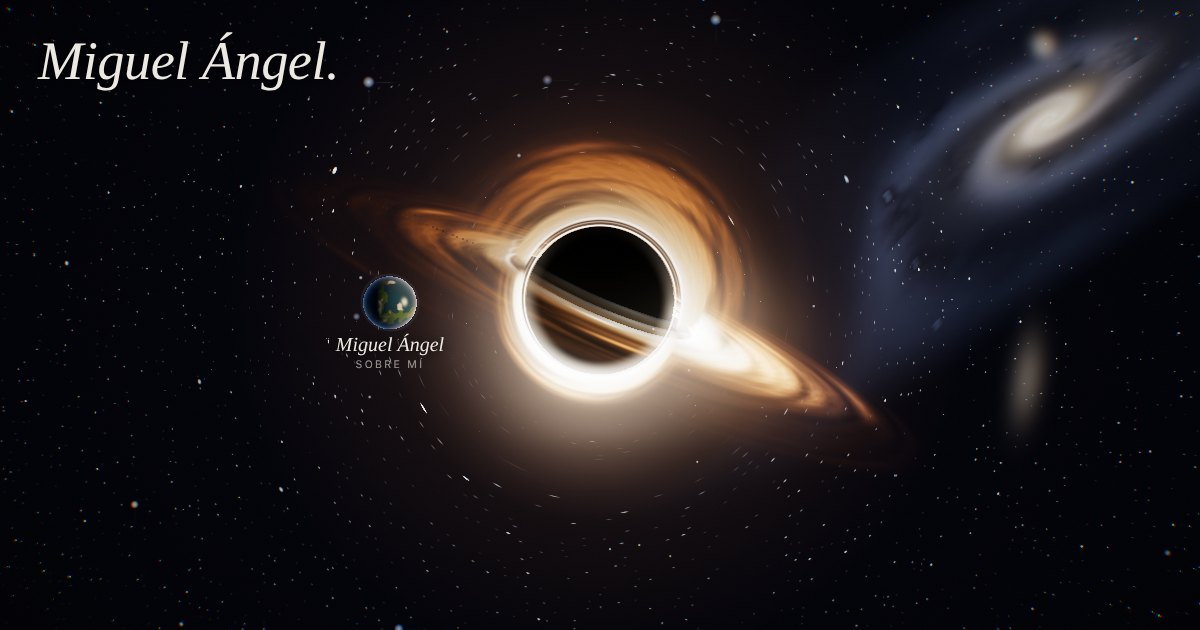
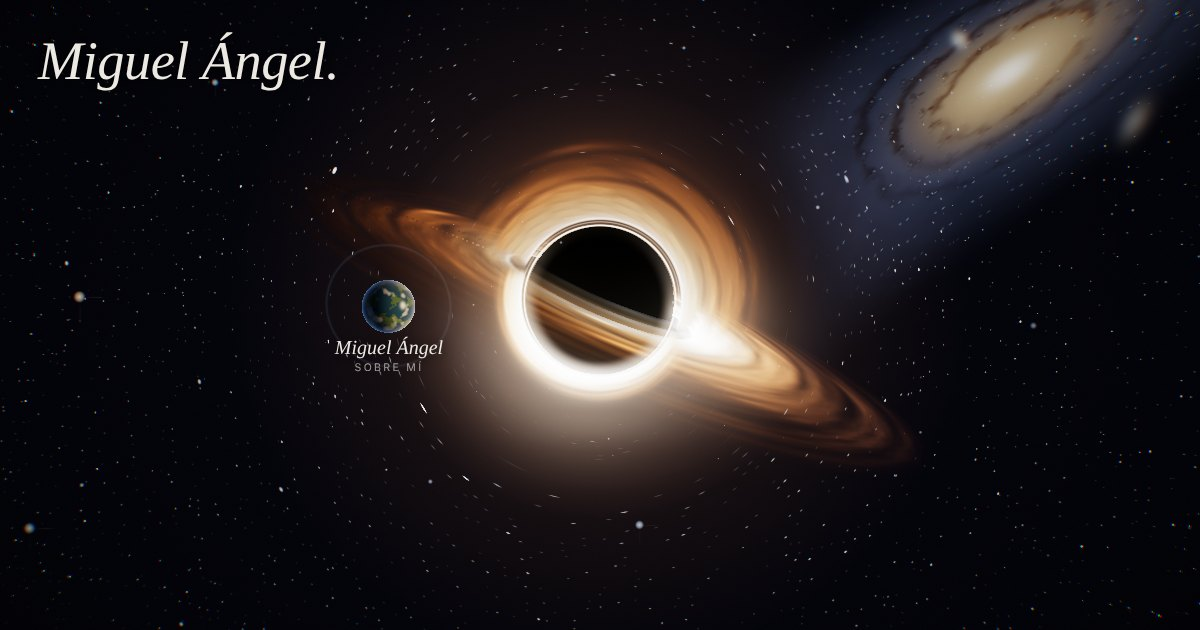
Gargantua: Andrómeda rehecha como la de verdad (bulbo cálido, bandas de polvo, M32 y M110 pegadas) y sin la luz suelta

diff --git a/gargantua/escena.js b/gargantua/escena.js
@@ -230,31 +230,48 @@ const fondo = new THREE.Mesh(
                 if (dot(d, g) < 0.9) return vec3(0.0);
                 vec3 e1 = normalize(cross(g, vec3(0.0, 1.0, 0.0)));
                 vec3 e2 = cross(e1, g);
-                vec2 p = vec2(dot(d, e1), dot(d, e2)) / 0.22;
-                p = mat2(0.83, -0.56, 0.56, 0.83) * p;
+                vec2 p = vec2(dot(d, e1), dot(d, e2)) / 0.18;
+                // Inclinada unos 35 grados y muy aplastada, como se ve de verdad
+                p = mat2(0.82, -0.57, 0.57, 0.82) * p;
                 vec2 q = vec2(p.x, p.y / 0.3);
                 float r = length(q);
                 vec3 col = vec3(0.0);
-                if (r < 1.7) {
+                if (r < 1.8) {
+                    float ruidoA = texture2D(tRuido, q * 0.6 + 0.3).r;
+                    float ruidoB = texture2D(tRuido, q * 2.2 + 0.7).r;
+                    float ruidoC = texture2D(tRuido, q * 5.0 + 0.11).r;
+                    // Núcleo blanco y bulbo amplio, cálido
+                    float nucleo = exp(-r * r * 90.0) * 2.2;
+                    float bulbo = exp(-r * r * 6.0);
+                    // Disco: se apaga hacia fuera y es más azul en los bordes
+                    float disco = exp(-r * 1.9) * smoothstep(1.75, 1.15, r) * (0.75 + 0.5 * ruidoA);
+                    vec3 colDisco = mix(vec3(0.5, 0.62, 1.0), vec3(1.0, 0.72, 0.42), smoothstep(0.85, 0.25, r));
+                    col = vec3(1.0, 0.95, 0.86) * nucleo + vec3(1.0, 0.7, 0.34) * bulbo + colDisco * disco * 0.95;
+                    // Bandas de polvo: anillos oscuros, marrones, más marcados
+                    // en el lado de arriba (el que queda más cerca)
                     float ang = atan(q.y, q.x);
-                    float ruidoA = texture2D(tRuido, q * 0.45 + 0.3).r;
-                    float ruidoB = texture2D(tRuido, q * 1.6 + 0.7).r;
-                    float brazos = pow(0.5 + 0.5 * sin(ang * 2.0 - log(r + 0.03) * 6.5 + ruidoA * 2.0), 1.6);
-                    float nucleo = exp(-r * r * 60.0) * 2.4 + exp(-r * 7.0) * 0.9;
-                    float disco = exp(-r * 1.7) * (0.3 + 0.7 * brazos) * smoothstep(1.7, 1.1, r);
-                    float polvo = smoothstep(0.42, 0.7, ruidoA * 0.6 + ruidoB * 0.4) * (0.5 + 0.5 * sin(r * 15.0 + ruidoA * 4.0));
-                    polvo *= smoothstep(0.12, 0.35, r) * smoothstep(1.4, 0.7, r) * (q.y > 0.0 ? 1.0 : 0.45);
-                    float nudos = smoothstep(0.7, 0.85, ruidoB) * brazos * smoothstep(0.35, 0.6, r) * smoothstep(1.3, 0.9, r);
-                    col = vec3(1.0, 0.8, 0.56) * nucleo;
-                    col += mix(vec3(0.42, 0.58, 1.0), vec3(0.95, 0.78, 0.66), exp(-r * 2.6)) * disco;
-                    col += vec3(0.55, 0.7, 1.0) * nudos * 0.6 + vec3(1.0, 0.45, 0.6) * nudos * smoothstep(0.8, 0.95, ruidoA) * 0.5;
-                    col *= 1.0 - polvo * 0.75;
+                    float corte = texture2D(tRuido, vec2(ang * 0.6, r * 1.3) + 0.21).r;
+                    float anillos = 0.0;
+                    for (int i = 0; i < 3; i++) {
+                        float ri = 0.42 + float(i) * 0.24 + sin(ang * 2.0 + float(i) * 1.7) * 0.03;
+                        float ancho = 0.025 + 0.03 * ruidoA;
+                        anillos += exp(-pow((r - ri - (ruidoB - 0.5) * 0.12) / ancho, 2.0)) * smoothstep(0.3, 0.6, corte + float(i) * 0.08);
+                    }
+                    // Polvo fino y deshilachado entre los anillos
+                    anillos += smoothstep(0.62, 0.8, ruidoC) * smoothstep(0.3, 0.5, r) * smoothstep(1.2, 0.8, r) * 0.6;
+                    float lado = q.y > 0.0 ? 1.0 : 0.45;
+                    float polvo = clamp(anillos * lado * (0.6 + 0.5 * ruidoC), 0.0, 1.0) * smoothstep(0.2, 0.4, r);
+                    col = mix(col, col * vec3(0.42, 0.26, 0.16), polvo * 0.85);
+                    // Cúmulos azules y alguna nube rosada en los brazos de fuera
+                    float nudos = smoothstep(0.74, 0.88, ruidoC) * smoothstep(0.55, 0.8, r) * smoothstep(1.5, 1.1, r);
+                    col += vec3(0.55, 0.72, 1.0) * nudos * 0.5 + vec3(1.0, 0.5, 0.65) * nudos * smoothstep(0.85, 0.95, ruidoB) * 0.5;
                 }
-                // M32, pegada al disco, y M110, más lejos y alargada
-                vec2 a1 = (p - vec2(0.12, 0.2)) / vec2(0.05, 0.045);
-                vec2 a2 = mat2(0.6, -0.8, 0.8, 0.6) * (p - vec2(-0.5, -0.62)) / vec2(0.14, 0.07);
-                col += vec3(1.0, 0.86, 0.7) * (exp(-dot(a1, a1) * 1.6) * 0.8 + exp(-dot(a2, a2) * 1.4) * 0.35);
-                return col * 0.32;
+                // Sus dos galaxias pequeñas, pegadas: M32 justo encima del
+                // disco y M110 abajo a la derecha, alargada
+                vec2 a1 = (p - vec2(-0.12, 0.2)) / vec2(0.045, 0.04);
+                vec2 a2 = mat2(0.94, -0.34, 0.34, 0.94) * (p - vec2(0.36, -0.42)) / vec2(0.1, 0.05);
+                col += vec3(1.0, 0.92, 0.82) * (exp(-dot(a1, a1) * 1.8) * 0.9 + exp(-dot(a2, a2) * 1.5) * 0.35);
+                return col * 0.34;
             }
 
             void main() {
@@ -293,7 +310,7 @@ fondo.renderOrder = -1;
 escena.add(fondo);
 // Andrómeda queda arriba a la izquierda del agujero vista desde el sitio
 // de partida; al girar alrededor pasa por detrás y se dobla
-fondo.material.uniforms.uGalaxia.value.set(-Math.sin(BASE_GIRO - 0.3), -Math.sin(BASE_ALTURA) + 0.14, -Math.cos(BASE_GIRO - 0.3)).normalize();
+fondo.material.uniforms.uGalaxia.value.set(-Math.sin(BASE_GIRO - 0.27), -Math.sin(BASE_ALTURA) + 0.17, -Math.cos(BASE_GIRO - 0.27)).normalize();
 
 
 

diff --git a/gargantua/index.html b/gargantua/index.html
@@ -89,6 +89,6 @@
     <p class="pista" id="pista">Toca un planeta para entrar, arrastra para girar</p>
     <p class="cargando" id="cargando">Encendiendo el disco...</p>
 
-    <script type="module" src="escena.js?v=26"></script>
+    <script type="module" src="escena.js?v=27"></script>
 </body>
 </html>
